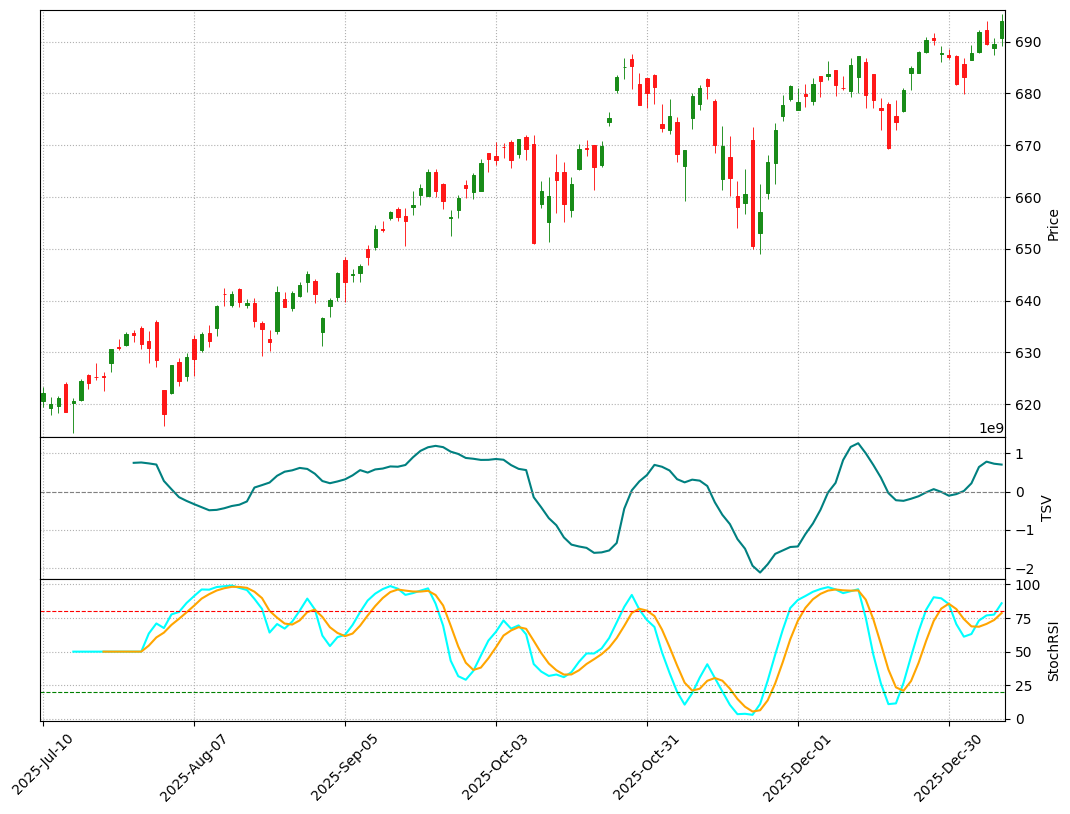
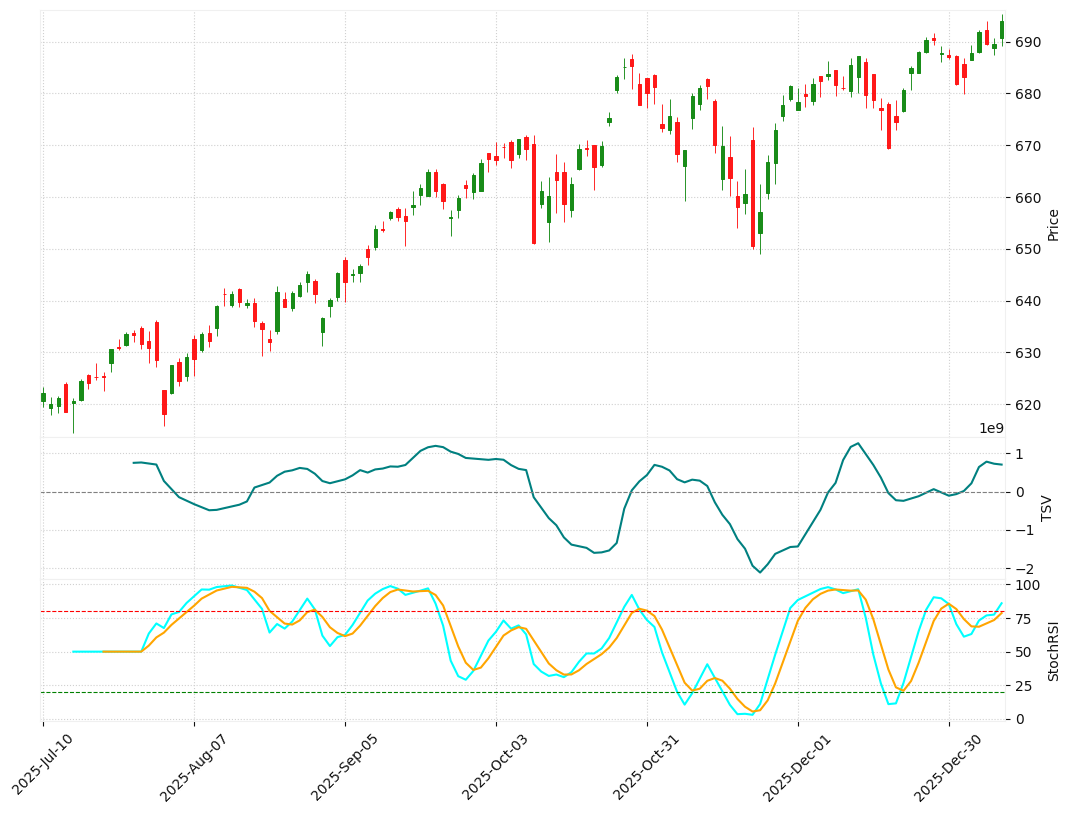
Simplify design with white background and black titles
- Changed app background to white (#FFFFFF).
- Changed titles and subtitles to black (#000000).
- Updated chart generation to use white background.
- Unified border colors for section headers.

diff --git a/frontend/style.css b/frontend/style.css
@@ -1,5 +1,5 @@
 :root {
-    --background: #E6F3F7;
+    --background: #FFFFFF;
     --card-background: #FFFFFF;
     --tab-text: #0fb1bd;
     --tab-bg: #FFFFFF;
@@ -33,7 +33,7 @@ body {
 }
 
 .header h1 {
-    color: var(--tab-text);
+    color: #000000;
     font-size: 1.8em;
     margin: 0 0 5px 0;
     display: flex;
@@ -139,7 +139,7 @@ body {
 
 /* --- Calendar/Indicators Styles --- */
 .calendar-title {
-    color: var(--tab-text);
+    color: #000000;
     font-size: 1.4em;
     text-align: center;
     margin: 0 0 20px 0;
@@ -227,7 +227,7 @@ body {
 }
 
 .heatmap-main-title {
-    color: var(--tab-text);
+    color: #000000;
     font-size: 1.4em;
     text-align: left;
     margin-bottom: 15px;
@@ -456,9 +456,9 @@ body {
     margin-bottom: 30px;
 }
 .market-section h3 {
-    color: var(--tab-text);
+    color: #000000;
     font-size: 1.3em;
-    border-bottom: 2px solid var(--border-color);
+    border-bottom: 2px solid #000000;
     padding-bottom: 8px;
     margin-bottom: 15px;
 }
@@ -559,7 +559,7 @@ body {
 }
 
 .ai-header h3 {
-    color: var(--tab-text);
+    color: #000000;
     font-size: 1.3em;
     margin: 0;
     border-bottom: none;
@@ -840,10 +840,10 @@ body {
 }
 
 .hwb-summary h2 {
-    color: var(--tab-text);
+    color: #000000;
     font-size: 1.6em;
     margin-bottom: 15px;
-    border-bottom: 2px solid var(--border-color);
+    border-bottom: 2px solid #000000;
     padding-bottom: 10px;
 }
 
@@ -905,11 +905,11 @@ body {
 }
 
 .hwb-charts-section h2 {
-    color: var(--tab-text);
+    color: #000000;
     font-size: 1.4em;
     margin-bottom: 20px;
     padding-bottom: 8px;
-    border-bottom: 2px solid var(--border-color);
+    border-bottom: 2px solid #000000;
 }
 
 .hwb-chart-grid {
@@ -991,11 +991,11 @@ body {
 }
 
 .hwb-symbol-section h2 {
-    color: var(--tab-text);
+    color: #000000;
     font-size: 1.4em;
     margin-bottom: 20px;
     padding-bottom: 8px;
-    border-bottom: 2px solid var(--border-color);
+    border-bottom: 2px solid #000000;
 }
 
 .hwb-symbol-list {

diff --git a/frontend/index.html b/frontend/index.html
@@ -13,7 +13,7 @@
     <style>
         .subtitle {
             font-size: 0.8em;
-            color: #555;
+            color: #000000;
             margin-top: -5px;
             text-align: center;
         }
@@ -85,7 +85,7 @@
             justify-content: space-between;
             align-items: center;
             margin-bottom: 10px;
-            border-bottom: 2px solid #eee;
+            border-bottom: 2px solid #000000;
             padding-bottom: 5px;
         }
         .slider-container {

diff --git a/backend/chart_generator.py b/backend/chart_generator.py
@@ -81,7 +81,7 @@ def generate_market_chart(df, output_path):
     # But if we use 'tight_layout', it might vary.
     # We will use a fixed figure size.
 
-    s = mpf.make_mpf_style(marketcolors=mc, gridstyle=':', y_on_right=True)
+    s = mpf.make_mpf_style(base_mpf_style='yahoo', marketcolors=mc, gridstyle=':', y_on_right=True, facecolor='white', figcolor='white')
 
     # Plot
     # We use returnfig=True to save manually if needed, or just savefig directly.
